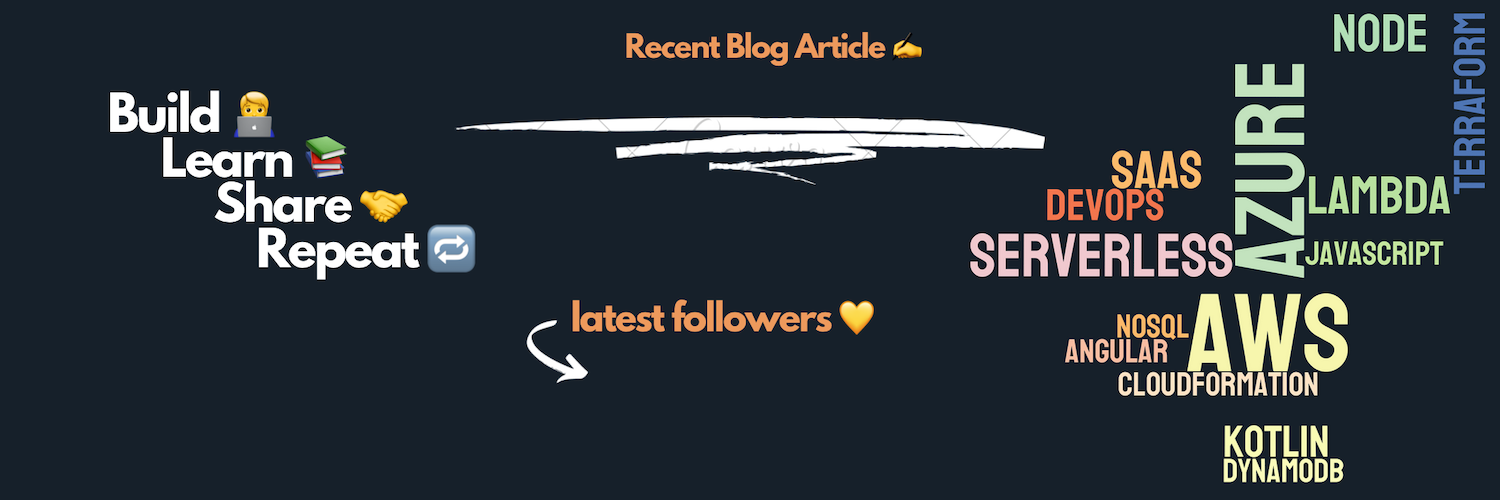
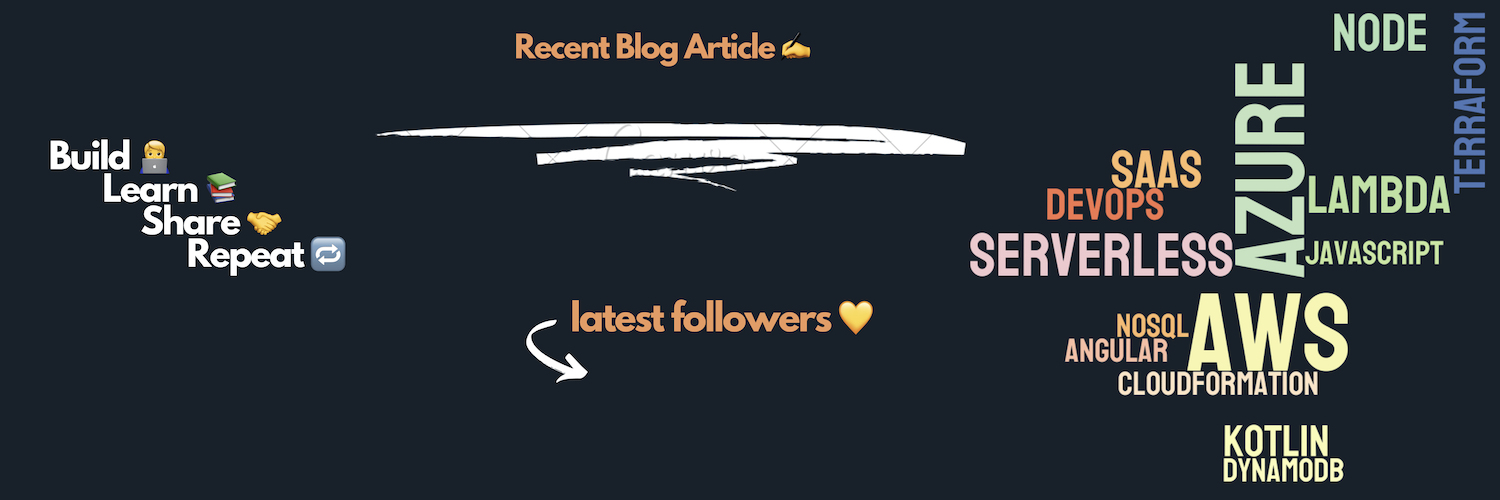
minor layout adjustments

diff --git a/src/handler.js b/src/handler.js
@@ -63,7 +63,7 @@ async function createBanner(headline) {
         })
     }))
     console.log(`Adding headline...`)
-    banner.print(font, 380, 65, headline);
+    banner.print(font, 180, 65, headline);
     await banner.writeAsync('/tmp/1500x500_final.png');
 }
 
@@ -73,7 +73,7 @@ async function getLatestArticleHeadline() {
     const title = rss.items[0].title
     console.log(`Retrieved headline: ${title}`)
     // add padding left & right to align it properly
-    const padding = ' '.repeat(Math.ceil((60 - title.length) / 2))
+    const padding = ' '.repeat(Math.ceil((80 - title.length) / 2))
     return `${padding}${title}${padding}`;
 }
 
